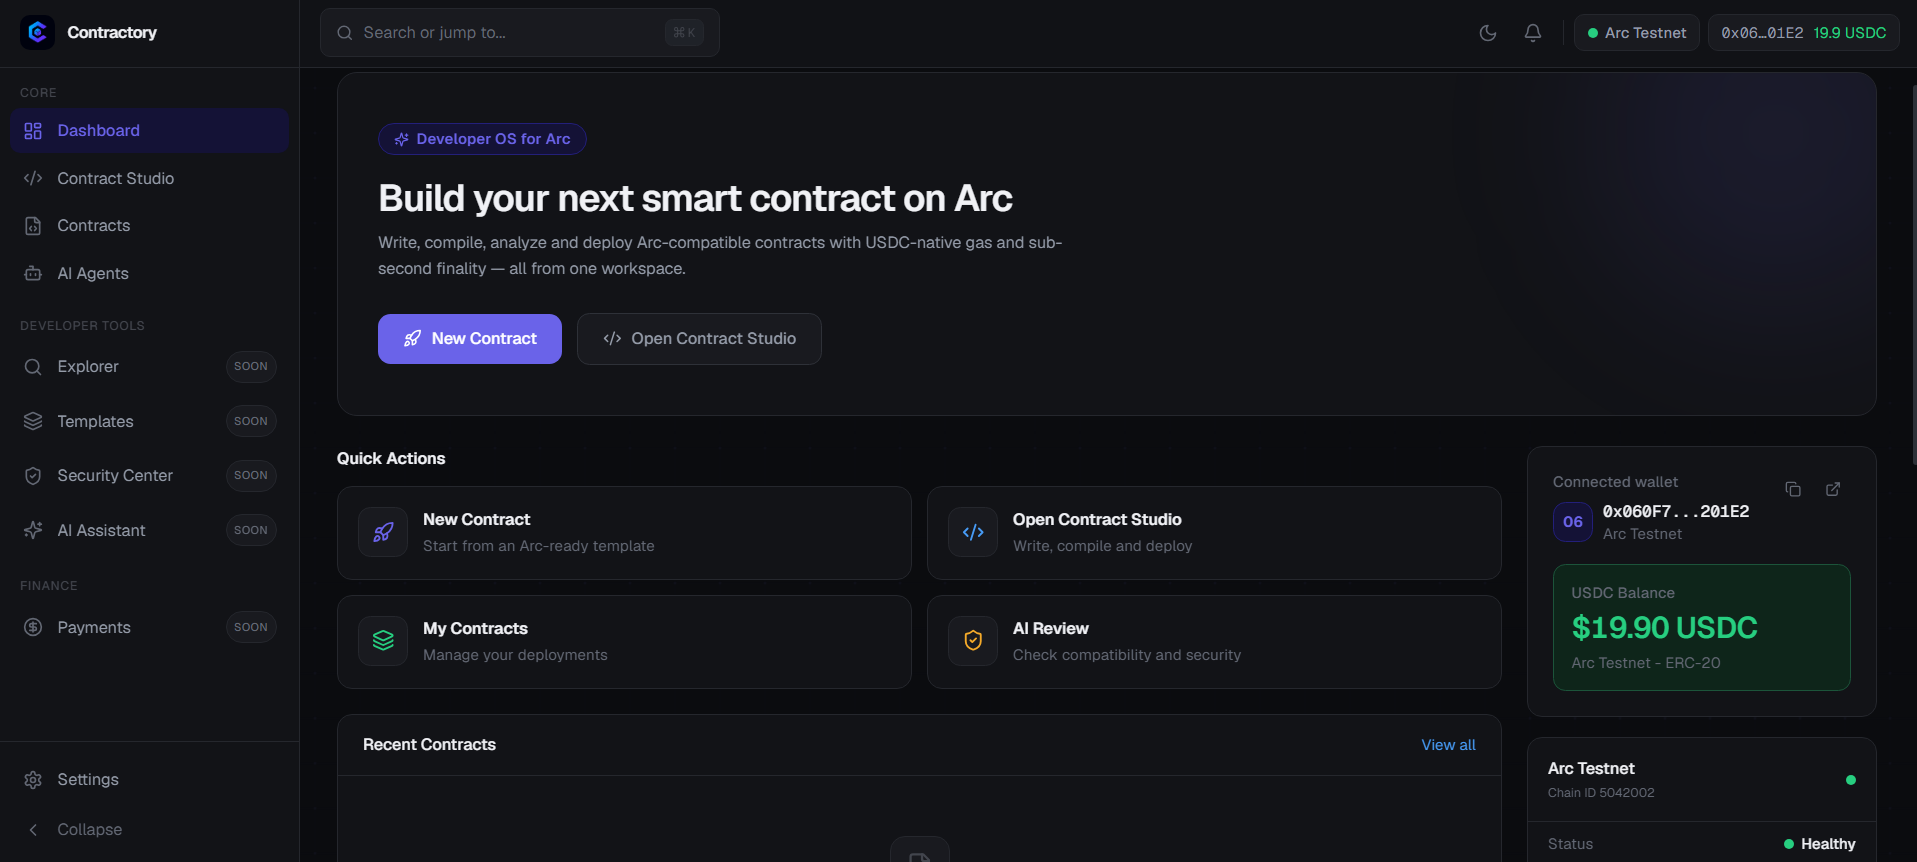
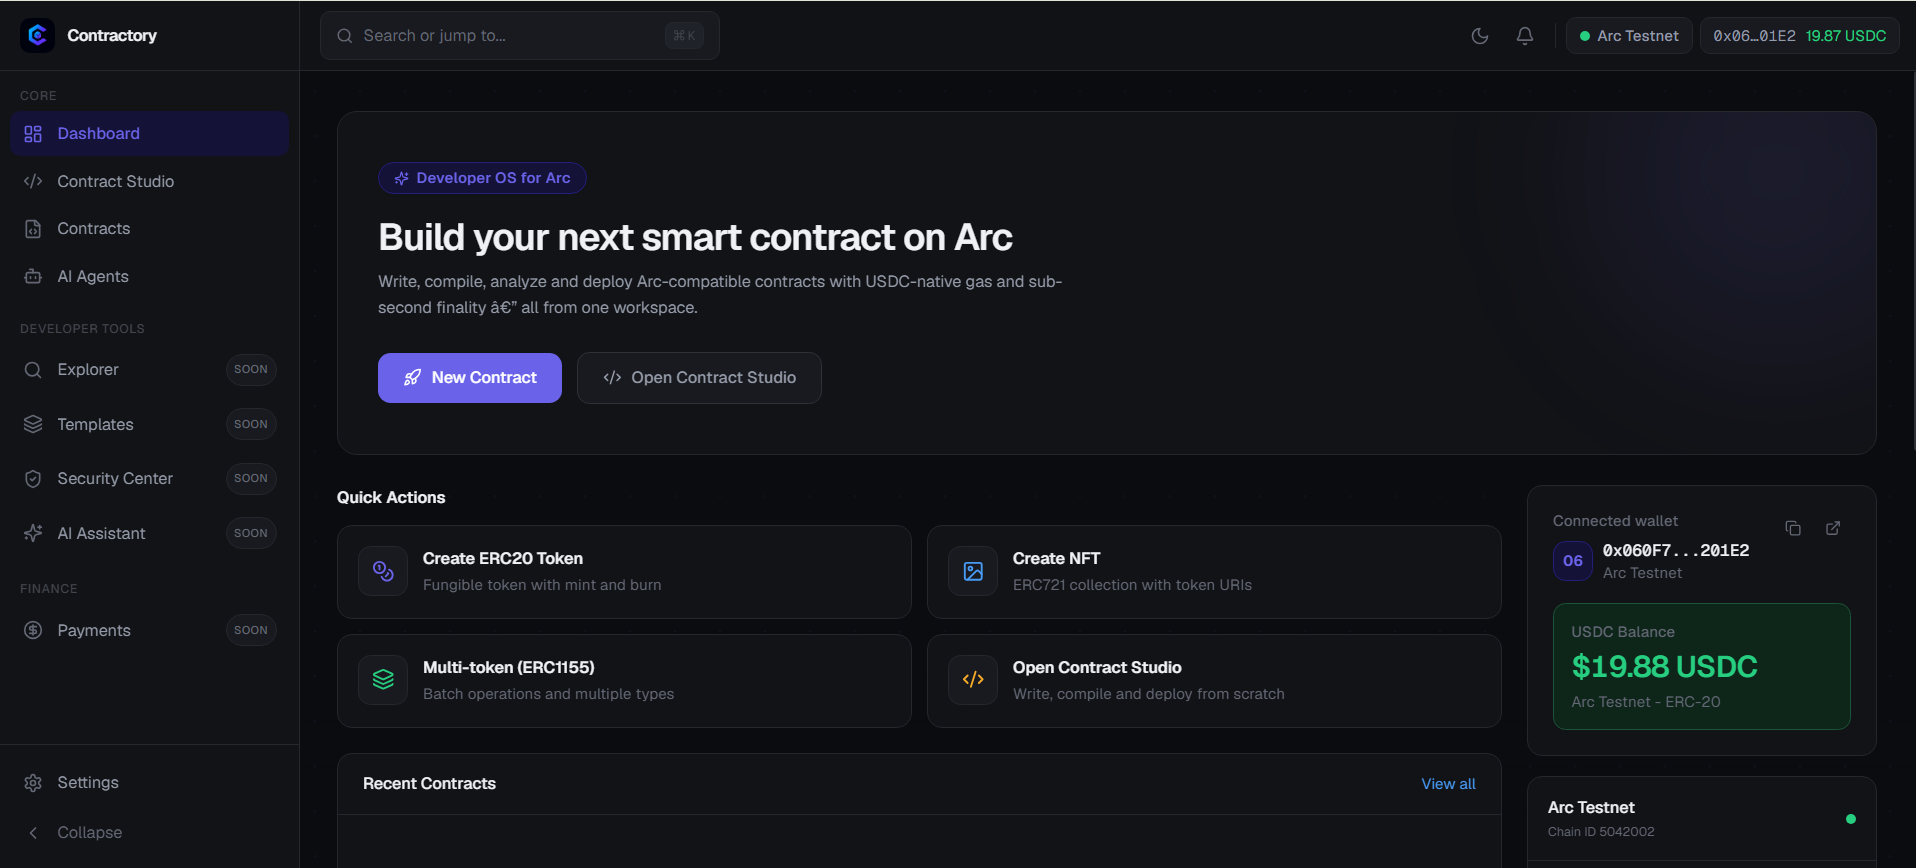
docs: restructure README (users first, contributors second) + update dashboard screenshot

diff --git a/README.md b/README.md
@@ -6,19 +6,30 @@
 
 Write, compile, analyze and deploy Arc-compatible smart contracts — with USDC-native gas and sub-second finality, all from one workspace.
 
-[Live App](https://contractory.xyz) · [Report a bug](https://github.com/izmiradami/contractory/issues) · [Request a feature](https://github.com/izmiradami/contractory/issues)
-
 </div>
 
 ---
 
-## Overview
+## Use Contractory
 
-Contractory is a focused development environment for [Arc](https://www.circle.com/arc), Circle''s USDC-native EVM Layer 1. It takes a developer from an empty editor to a verified, on-chain contract without leaving the browser, and gives every deployment a clean control center for ongoing management.
+**Contractory is live. No setup required.**
 
-The product is built around a single, polished developer journey:
+### → [Open the app at contractory.xyz](https://contractory.xyz)
 
-**Connect Wallet → Open Contract Studio → Create ERC20 → Compile → Analyze → Deploy → Verify on ArcScan → Manage in the Contract Control Center.**
+Connect your Arc Testnet wallet and you can immediately:
+
+1. **Connect Wallet** with RainbowKit / SIWE
+2. **Open Contract Studio** and pick a template
+3. **Create an ERC20** (or NFT, multi-token, agent contract)
+4. **Compile** with the in-browser Solidity compiler
+5. **Analyze** with the Arc Compatibility Analyzer (aim for 100/100)
+6. **Deploy** to Arc Testnet, paying gas in USDC
+7. **Verify** the source on ArcScan
+8. **Manage** everything in the Contract Control Center
+
+That flow *is* the product.
+
+---
 
 ## Screenshots
 
@@ -40,7 +51,26 @@ The product is built around a single, polished developer journey:
 - **Contract Control Center** — Per-contract overview, ABI, functions, events, and an AI-assisted executive summary, backed by real on-chain and stored data.
 - **Wallet & auth** — Wallet connection via RainbowKit/wagmi with Sign-In With Ethereum (SIWE).
 
-## Tech Stack
+## Roadmap
+
+Contractory v1.0 is focused on the core contract-development journey. Planned for **v1.1** and beyond:
+
+- **Explorer** — A native Arc block, transaction and contract browser.
+- **Templates** — A searchable gallery of Arc-ready contract templates.
+- **Security Center** — Portfolio-wide static analysis and audit history.
+- **AI Assistant** — A conversational pair-programmer for Arc Solidity.
+- **Payments Hub** — USDC send, bridge, swap and automations.
+- **AI Agents** — On-chain agent identity and reputation (ERC-8004 / ERC-8183).
+
+These appear in the app today as premium "Coming Soon" previews — no mock data, no fake interactions.
+
+---
+
+## Develop Contractory
+
+The section below is for **contributors and developers** who want to run Contractory locally. If you just want to use it, visit [contractory.xyz](https://contractory.xyz) instead.
+
+### Tech Stack
 
 - **Framework:** Next.js 15 (App Router), React 19, TypeScript
 - **Styling:** Tailwind CSS
@@ -48,8 +78,6 @@ The product is built around a single, polished developer journey:
 - **Editor:** Monaco
 - **Persistence:** Supabase
 - **Chain:** Arc Testnet (Chain ID `5042002`, USDC-native gas)
-
-## Getting Started
 
 ### Prerequisites
 
@@ -89,26 +117,13 @@ NEXT_PUBLIC_APP_URL=http://localhost:3000
 
 All variables are public client-side values. Never commit private keys or secrets to the repository.
 
-## Deployment
+### Deployment
 
 Contractory deploys cleanly to [Vercel](https://vercel.com):
 
 1. Import the repository into Vercel.
 2. Add the environment variables above in the project settings.
 3. Deploy. Vercel builds with `npm run build` automatically.
-
-## Roadmap
-
-Contractory v1.0 is focused on the core contract-development journey. Planned for **v1.1** and beyond:
-
-- **Explorer** — A native Arc block, transaction and contract browser.
-- **Templates** — A searchable gallery of Arc-ready contract templates.
-- **Security Center** — Portfolio-wide static analysis and audit history.
-- **AI Assistant** — A conversational pair-programmer for Arc Solidity.
-- **Payments Hub** — USDC send, bridge, swap and automations.
-- **AI Agents** — On-chain agent identity and reputation (ERC-8004 / ERC-8183).
-
-These appear in the app today as premium "Coming Soon" previews — no mock data, no fake interactions.
 
 ## Contributing
 